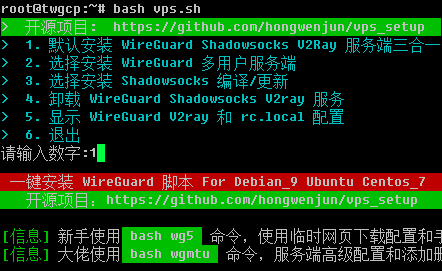
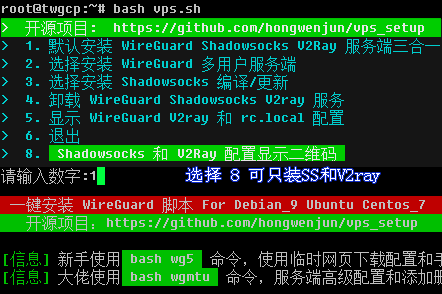
更新说明文档

diff --git a/README.md b/README.md
@@ -19,6 +19,9 @@
 - 此项目仅限于技术交流和探讨，在您测试完毕后必须在1秒钟内彻底删除项目副本。此项目为bash一键脚本，其中涉及到的任何软件版权和责任归原作者所有。
 - 在中国境内使用、传播、售卖、免费分享等任何翻墙服务，都是违法的。如果你在中国境内使用、测试此项目脚本，或者使用此脚本搭建服务器发生以上违法行为，都有违作者意愿！你必须立刻停止此行为！并删除脚本！
 
+### V2Ray和Shadowsocks配置显示二维码  短网址: https://git.io/v2ray.ss
+![](https://raw.githubusercontent.com/hongwenjun/vps_setup/master/v2ray/v2ray_diy.gif)
+
 ### WireGuard 管理使用命令 bash wgmtu 
 [![点击图片链接视频演示](https://raw.githubusercontent.com/hongwenjun/vps_setup/master/img/wgmtu.png)](https://youtu.be/iOnAeWRvSQI)
 

diff --git a/shadowsocks/README.md b/shadowsocks/README.md
@@ -15,8 +15,10 @@ ss-server -s 0.0.0.0 -p 40000 -k ${PASSWORD} -m aes-256-gcm -t 300 >> /var/log/s
 ### 基于alipine构建的shadowsocks-libev服务 -- Docker安装
   https://hub.docker.com/r/taterli/shadowsocks-tiny
   
-### wget -qO ss.sh git.io/fhExJ && bash ss.sh update
+### V2Ray和Shadowsocks配置显示二维码  短网址: https://git.io/v2ray.ss
+![](https://raw.githubusercontent.com/hongwenjun/vps_setup/master/v2ray/v2ray_diy.gif)
 
+### wget -qO ss.sh git.io/fhExJ && bash ss.sh update
 # ---------------- 手工编译安装 --------------------------
 ### Debian 9 & Ubuntu 18 安装编译环境和运行库
 ```

diff --git a/v2ray/README.md b/v2ray/README.md
@@ -9,6 +9,9 @@ bash <(curl -L -s https://install.direct/go.sh)
 cat /etc/v2ray/config.json
 ```
 
+### V2Ray和Shadowsocks配置显示二维码  短网址: https://git.io/v2ray.ss
+![](https://raw.githubusercontent.com/hongwenjun/vps_setup/master/v2ray/v2ray_diy.gif)
+
 ### v2ray服务端走kcp配置示例 /etc/v2ray/config.json
 ```
 {
